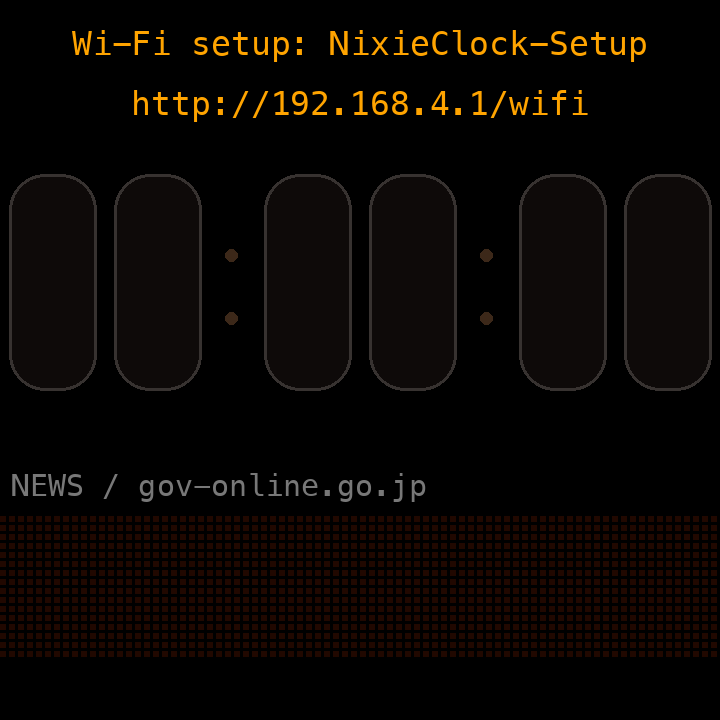
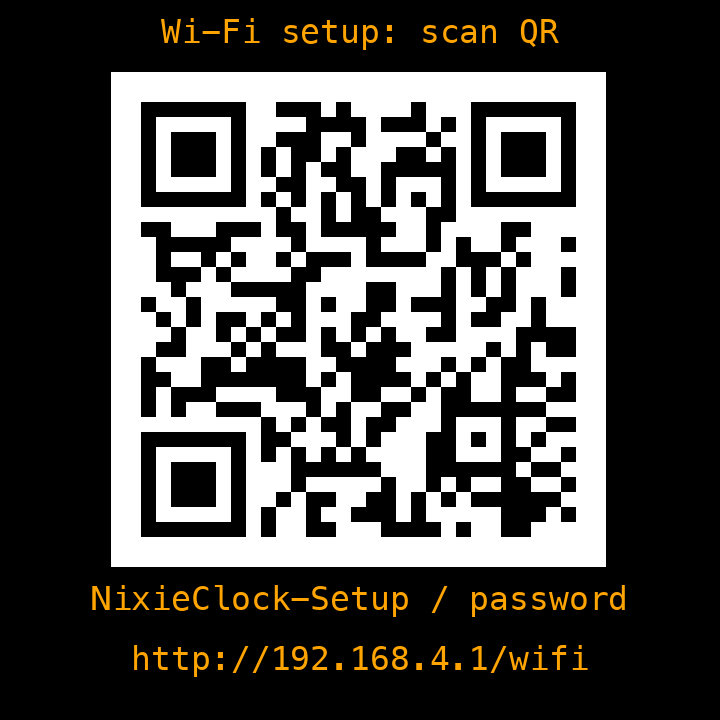
1.8.0：QR コードで Wi-Fi 設定、パスワード廃止。README と画面写真を更新

diff --git a/README.md b/README.md
@@ -5,23 +5,22 @@ Smart Weather Clock（SD Pro、[JUZIPi-tech/SD_PRO](https://github.com/JUZIPi-te
 
 ## まずは最初の設定（Wi-Fi）
 
-スマホ 1 台あれば、5 分ほどで終わります。
+スマホ 1 台あれば、数分で終わります。パスワードの入力はほとんど要りません。
 まだこのファームを時計に書き込んでいない場合は、先に下の「[書き込み方](#書き込み方)」を済ませてください。
 
 ### 1. 時計の電源を入れる
 
-30 秒ほど待つと、時計が自分で Wi-Fi「**NixieClock-Setup**」を出し、画面の上に次の案内が出ます。
+30 秒ほど待つと、時計が自分で Wi-Fi「**NixieClock-Setup**」を出し、画面に QR コードが出ます。
 
-<img src="docs/images/01_clock.png" width="240" alt="設定用 Wi-Fi を出しているときの時計の画面（イメージ）">
+<img src="docs/images/01_clock.png" width="240" alt="設定用 Wi-Fi を出しているときの時計の画面（QR コード）">
 
-（画面はイメージです。ニキシー管は、時刻が分かるまで消えたままです）
+### 2. スマホのカメラで QR コードを読む
 
-### 2. スマホを「NixieClock-Setup」につなぐ
-
-スマホの「設定」→「Wi-Fi」で **NixieClock-Setup** を選び、パスワード **`password`** を入れます。
+スマホのカメラを QR コードに向け、出てきた「NixieClock-Setup に接続」を押します。パスワードの入力は要りません。
 
 - つなぐと、設定画面が自動で開きます。
 - 開かないときは、ブラウザで **`http://192.168.4.1/wifi`** を開いてください。
+- QR コードを読めないときは、スマホの「設定」→「Wi-Fi」で **NixieClock-Setup** を選び、パスワード **`password`** を入れてください。
 - 「インターネットに接続されていません」と出ても、そのままつないでおいてください（時計の Wi-Fi はインターネットにつながっていないためです）。
 
 ### 3. 家の Wi-Fi を選んで保存する
@@ -40,20 +39,8 @@ Smart Weather Clock（SD Pro、[JUZIPi-tech/SD_PRO](https://github.com/JUZIPi-te
 時計が再起動して家の Wi-Fi につなぐと、ニキシー管に時刻が出て、画面の一番上に時計の **IP アドレス**（例：`IP 192.168.1.23`）が出ます。
 スマホも家の Wi-Fi に戻してください。
 
-うまくつながらないときは、30 秒ほどでまた「NixieClock-Setup」が出るので、2 からやり直してください。
-
-### パスワードについて
-
-| パスワード | 初期値 | 変えられるか |
-|---|---|---|
-| 設定用 Wi-Fi「NixieClock-Setup」 | `password` | 変えられない（だれでも設定し直せるように固定） |
-| Wi-Fi 設定・ファーム更新（ユーザー `admin`） | `password` | 設定画面の「Wi-Fi 設定のパスワードを変える」で変えられる（8 文字以上） |
-
-- 初期値の `password` はだれでも知っているので、**家の Wi-Fi につないだあとで変えることをおすすめします**。
-- 「NixieClock-Setup」から開いた設定画面では、Wi-Fi 設定のパスワードを聞きません。人から譲り受けた時計でも、前の持ち主のパスワードを知らずに設定し直せます。
-  その代わり、時計が「NixieClock-Setup」を出している間は、近くにいる人も接続先を変えられます。
-- 家の Wi-Fi から設定画面を開いたときは、Wi-Fi 設定のパスワードが必要です。
-- 家の Wi-Fi が一時的に切れて「NixieClock-Setup」になっても、スマホがつながっていなければ 3 分ごとに家の Wi-Fi を試し、つながれば自動で戻ります。
+うまくつながらないときは、30 秒ほどでまた QR コードが出るので、2 からやり直してください。
+家の Wi-Fi が一時的に切れて QR コードの画面になっても、スマホがつながっていなければ 3 分ごとに家の Wi-Fi を試し、つながれば自動で元に戻ります。
 
 ## 使い方（設定画面）
 
@@ -63,23 +50,23 @@ Smart Weather Clock（SD Pro、[JUZIPi-tech/SD_PRO](https://github.com/JUZIPi-te
 
 | 設定 | 内容 |
 |------|------|
-| ニュース | 政府広報オンライン（新着 5 件）／地震（気象庁の情報から、震度 1 以上の直近 3 回） |
+| ニュース | 政府広報オンライン（新着の説明文）／地震（気象庁の情報から、震度 1 以上の直近 3 回） |
 | 向き | 0〜3（画面の回転） |
 | バックライト反転 | 0／1（画面が暗いままなら切り替える。この機種は 1） |
 | 明るさ・夜の明るさ | 0〜100 |
 | 夜の時間帯 | 何時から何時まで暗くするか |
-| 流れる速さ | 電光掲示板が 1 ドット進む間隔（ミリ秒） |
+| 流れる速さ | 電光掲示板が 1 ドット進む間隔（ミリ秒。初期値 25） |
 
-設定は「保存」を押すとすぐに変わります（パスワードは不要）。
-ほかに「数字を回す」「ニュースを取り直す」「Wi-Fi 設定」「ファーム更新」「再起動」があります（ファーム更新と再起動はパスワードが必要）。
+「保存」を押すとすぐに変わります。
+ほかに「Wi-Fi 設定」「数字を回す」「ニュースを取り直す」「ファーム更新」「再起動」があります。
 
 ## できること
 
 - **ニキシー管 8 本で `時:分:秒`**。毎分 0 秒に全部の数字がランダムに回り、左から順に止まります（ダイバージェンスメーター風）
 - **上段に時計の IP アドレス**、その下に**日付**：「10月5日(月)」、祝日は「11月23日(勤労感謝の日)」のように祝日名
-- **下段に LED 電光掲示板**：ニュースの見出しが右から左へ流れます（政府広報オンラインの新着か、最近の地震（気象庁）を選べます）
+- **下段に LED 電光掲示板**：政府広報オンラインの新着か、最近の地震（気象庁）が右から左へ流れます（出典を表示します）
 - 夜間（初期値 23 時〜7 時）は画面を暗くします
-- Wi-Fi は本体が出す Wi-Fi「NixieClock-Setup」につないで、スマホから設定できます
+- Wi-Fi は、時計の画面の QR コードをスマホで読んで設定できます
 
 ダウンロード：[Releases](../../releases) の `NixieClock-<版>.bin`
 
@@ -103,27 +90,42 @@ Smart Weather Clock（SD Pro、[JUZIPi-tech/SD_PRO](https://github.com/JUZIPi-te
 2. パソコンから元のファームの更新機能に送ります。
 
    ```bash
-   curl -F "update=@NixieClock-1.6.4.bin" http://<時計のIP>/update_ota
+   curl -F "update=@NixieClock-1.8.0.bin" http://<時計のIP>/update_ota
    ```
 
-   元のファームが書き込める大きさは約 500KB までです。このファームは約 460KB です。
-3. 10 秒ほどで再起動します。家の Wi-Fi はまだ知らないので、次の「最初の設定」に進みます。
+   元のファームが書き込める大きさは約 500KB までです。このファームは約 440KB です。
+3. 10 秒ほどで再起動します。家の Wi-Fi はまだ知らないので、上の「[まずは最初の設定](#まずは最初の設定wi-fi)」に進みます。
 
 ### このファームから（2 回目以降）
 
 1. ブラウザで `http://<時計のIP>/update` を開きます。時計の IP アドレスは、時計の画面の一番上に出ています。
-2. ユーザー名 `admin`、パスワードは Wi-Fi 設定のパスワード（初期値 `password`）でログインします。
-3. 「Firmware」の欄で .bin ファイルを選び、「Update Firmware」を押します。1〜2 分で再起動します。
+2. 「Firmware」の欄で .bin ファイルを選び、「Update Firmware」を押します。1〜2 分で再起動します。
 
 <img src="docs/images/05_update.png" width="360" alt="ファーム更新の画面">
+
+パソコンからなら、次の 1 行でも書き込めます。
+
+```bash
+curl -F "firmware=@NixieClock-1.8.0.bin" http://<時計のIP>/update
+```
+
+1.8.0 を書き込むと、明るさ・ニュースなどの設定は初期値に戻ります（家の Wi-Fi の設定は残ります）。
 
 ## 通信について
 
 - 時刻：NTP（`ntp.nict.jp`、`pool.ntp.org`）。日本時間で表示します。
-- 日付の画像と電光掲示板の文字（政府広報オンライン・気象庁の情報を、サーバーが 1 時間に 1 回取りに行った分。出典を表示します）：`http://api.hasami.uk/clock/` から取ります（日付は毎日 0 時、ニュースは 10 分ごと）。
+- 日付の画像と電光掲示板の文字：`http://api.hasami.uk/clock/` から取ります（日付は毎日 0 時、電光掲示板は 10 分ごと）。
+  政府広報オンライン・気象庁の情報は、サーバーが 1 時間に 1 回取りに行った分です。
   時計には日本語フォントが無いので、サーバーが文字を点の画像にして返します。
   ESP8266 はメモリが少なく HTTPS では余裕がないため、HTTP で取ります。送るのは日付と取得元の種類だけで、個人の情報は送りません。
-- このサーバーは個人で動かしているもので、予告なく止まったり変わったりすることがあります。止まると日付は英字（`10/5 MON`）になり、ニュースは流れません。
+- このサーバーは個人で動かしているもので、予告なく止まったり変わったりすることがあります。止まると日付は英字（`10/5 MON`）になり、電光掲示板は流れません。
+
+## 安全について
+
+- 時計の設定画面・ファーム更新・再起動には、**パスワードがありません**。時計と同じ Wi-Fi（LAN）にいる人なら、誰でも設定を変えたり、ファームを書き換えたりできます。
+  インターネットからは届きませんが、来客用など**他の人と共有する Wi-Fi には置かない**でください。
+- 設定用 Wi-Fi「NixieClock-Setup」のパスワードは `password` で固定です。時計がこの Wi-Fi を出している間（家の Wi-Fi につながらないとき）は、近くにいる人も接続先を変えられます。
+  そのかわり、人から譲り受けた時計でも、前の持ち主に聞かずに設定し直せます。
 
 ## うまく動かないとき
 
